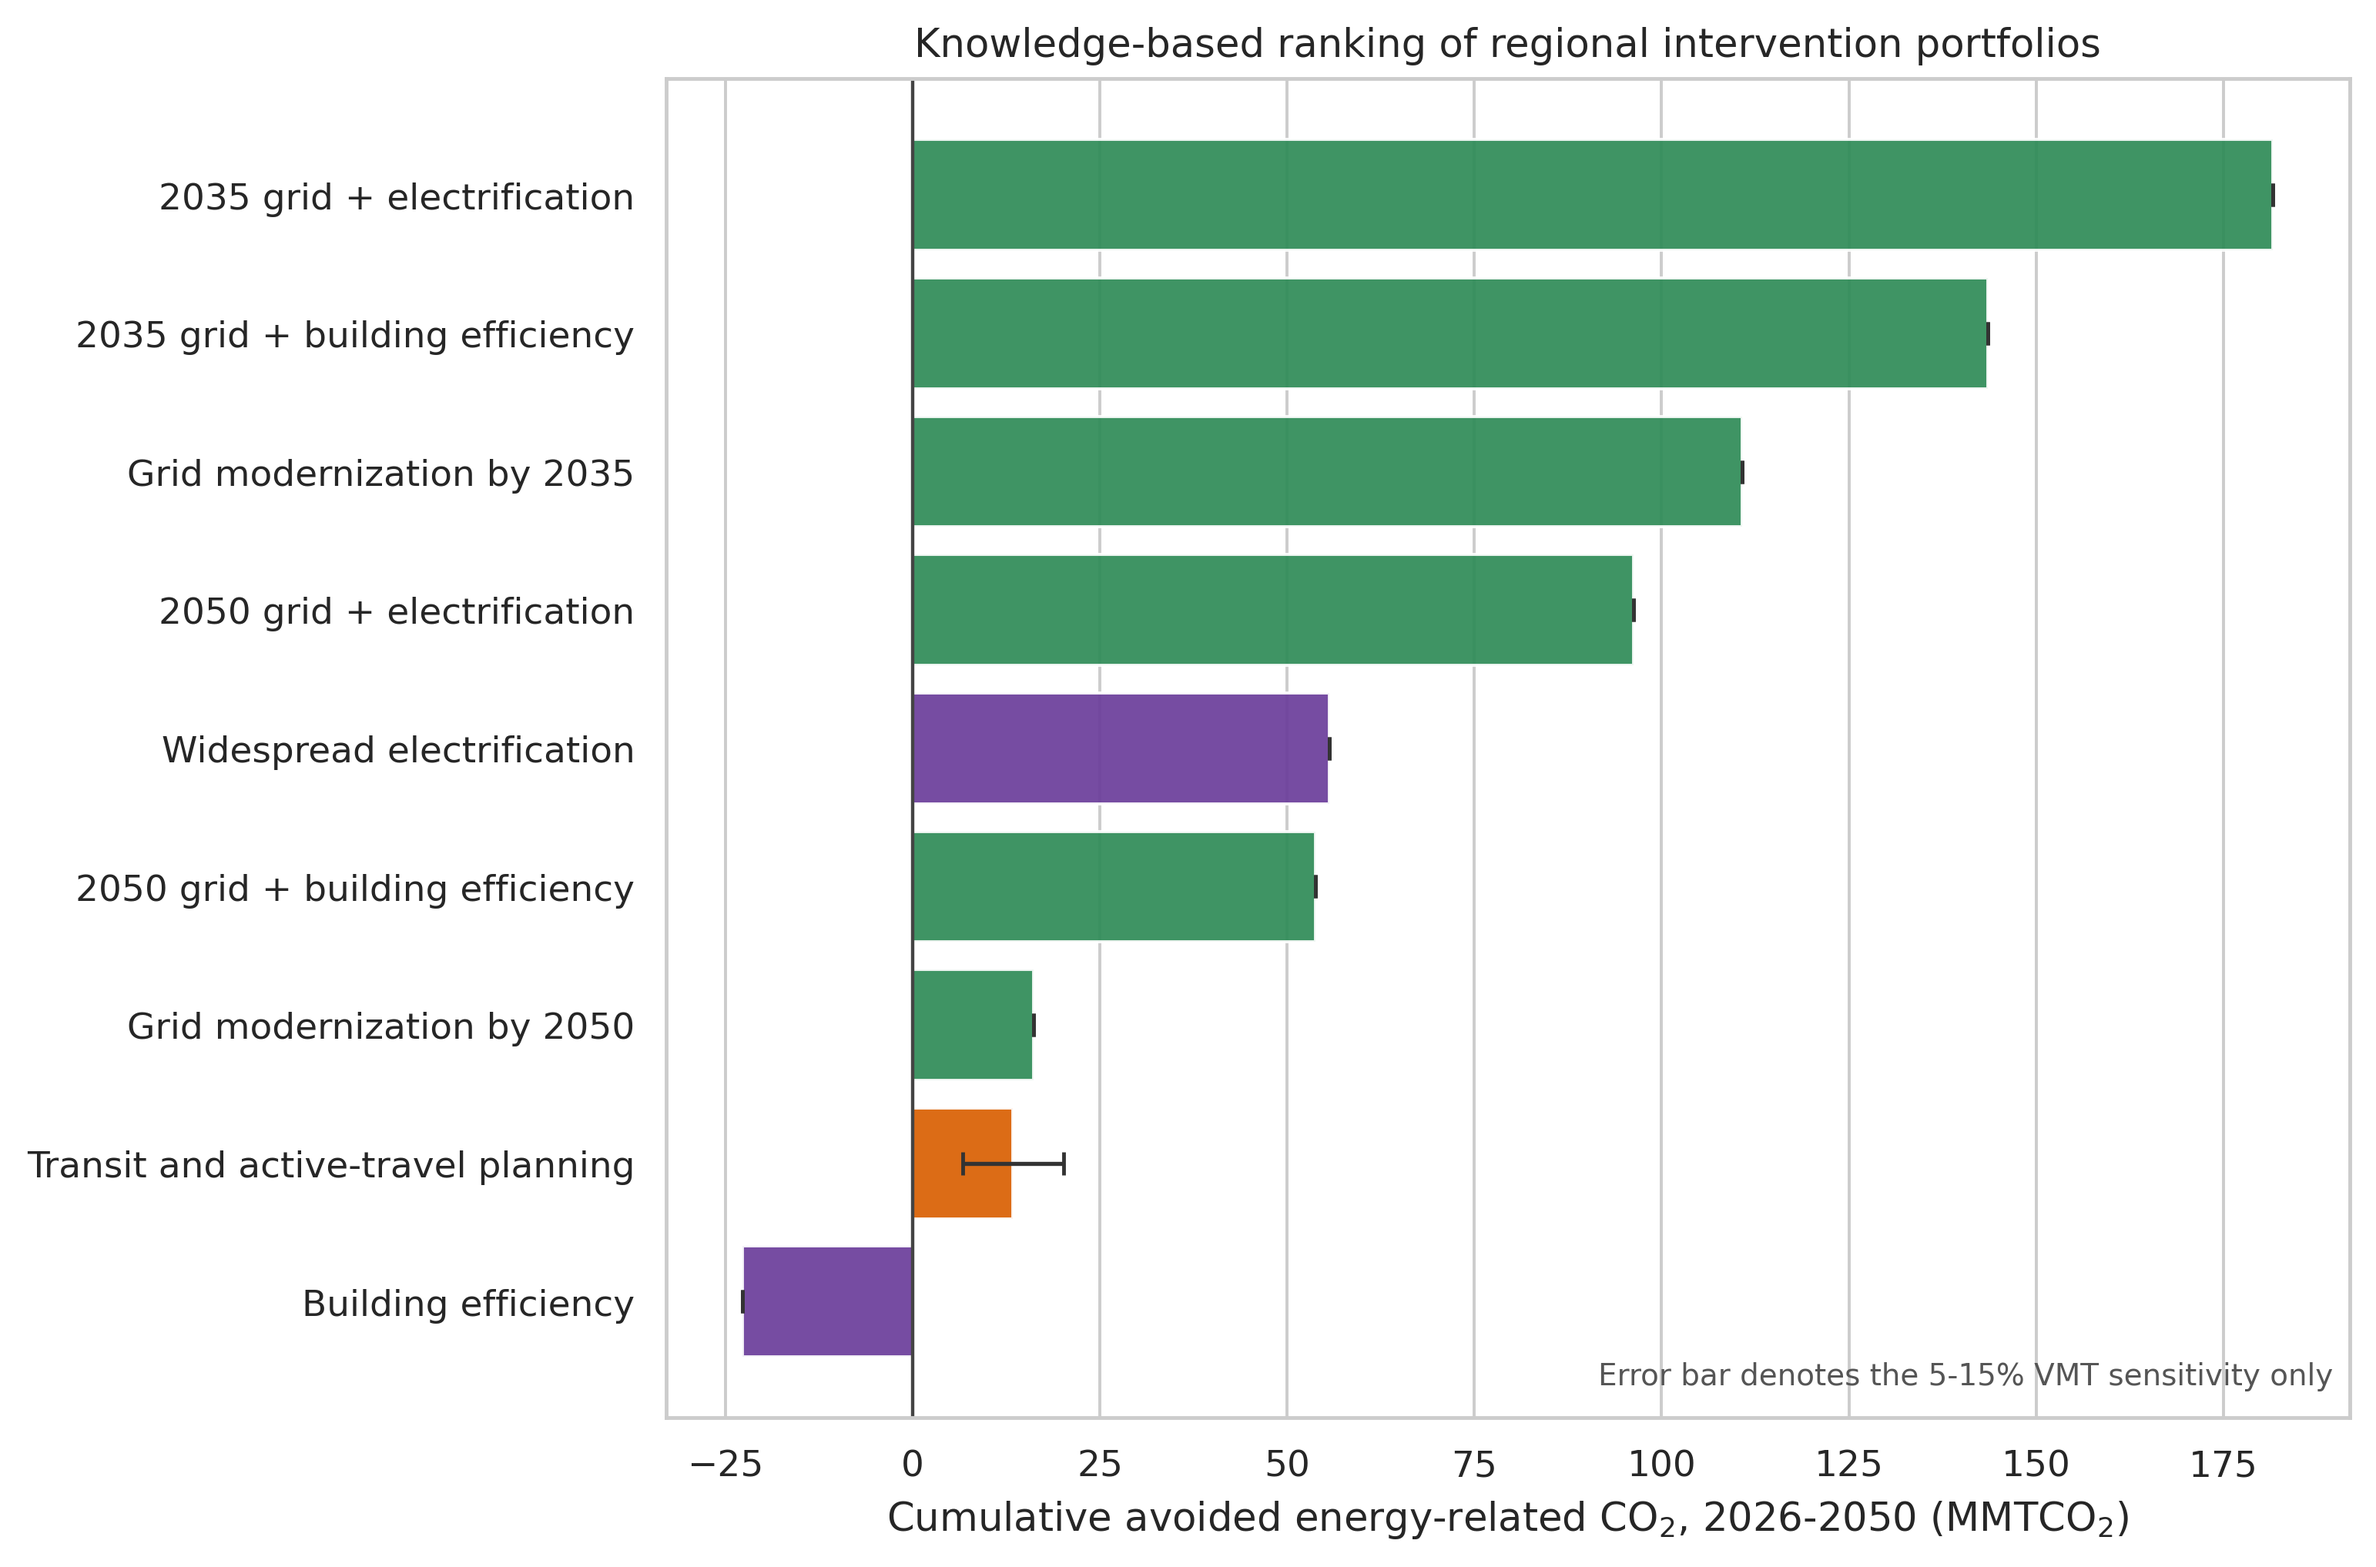
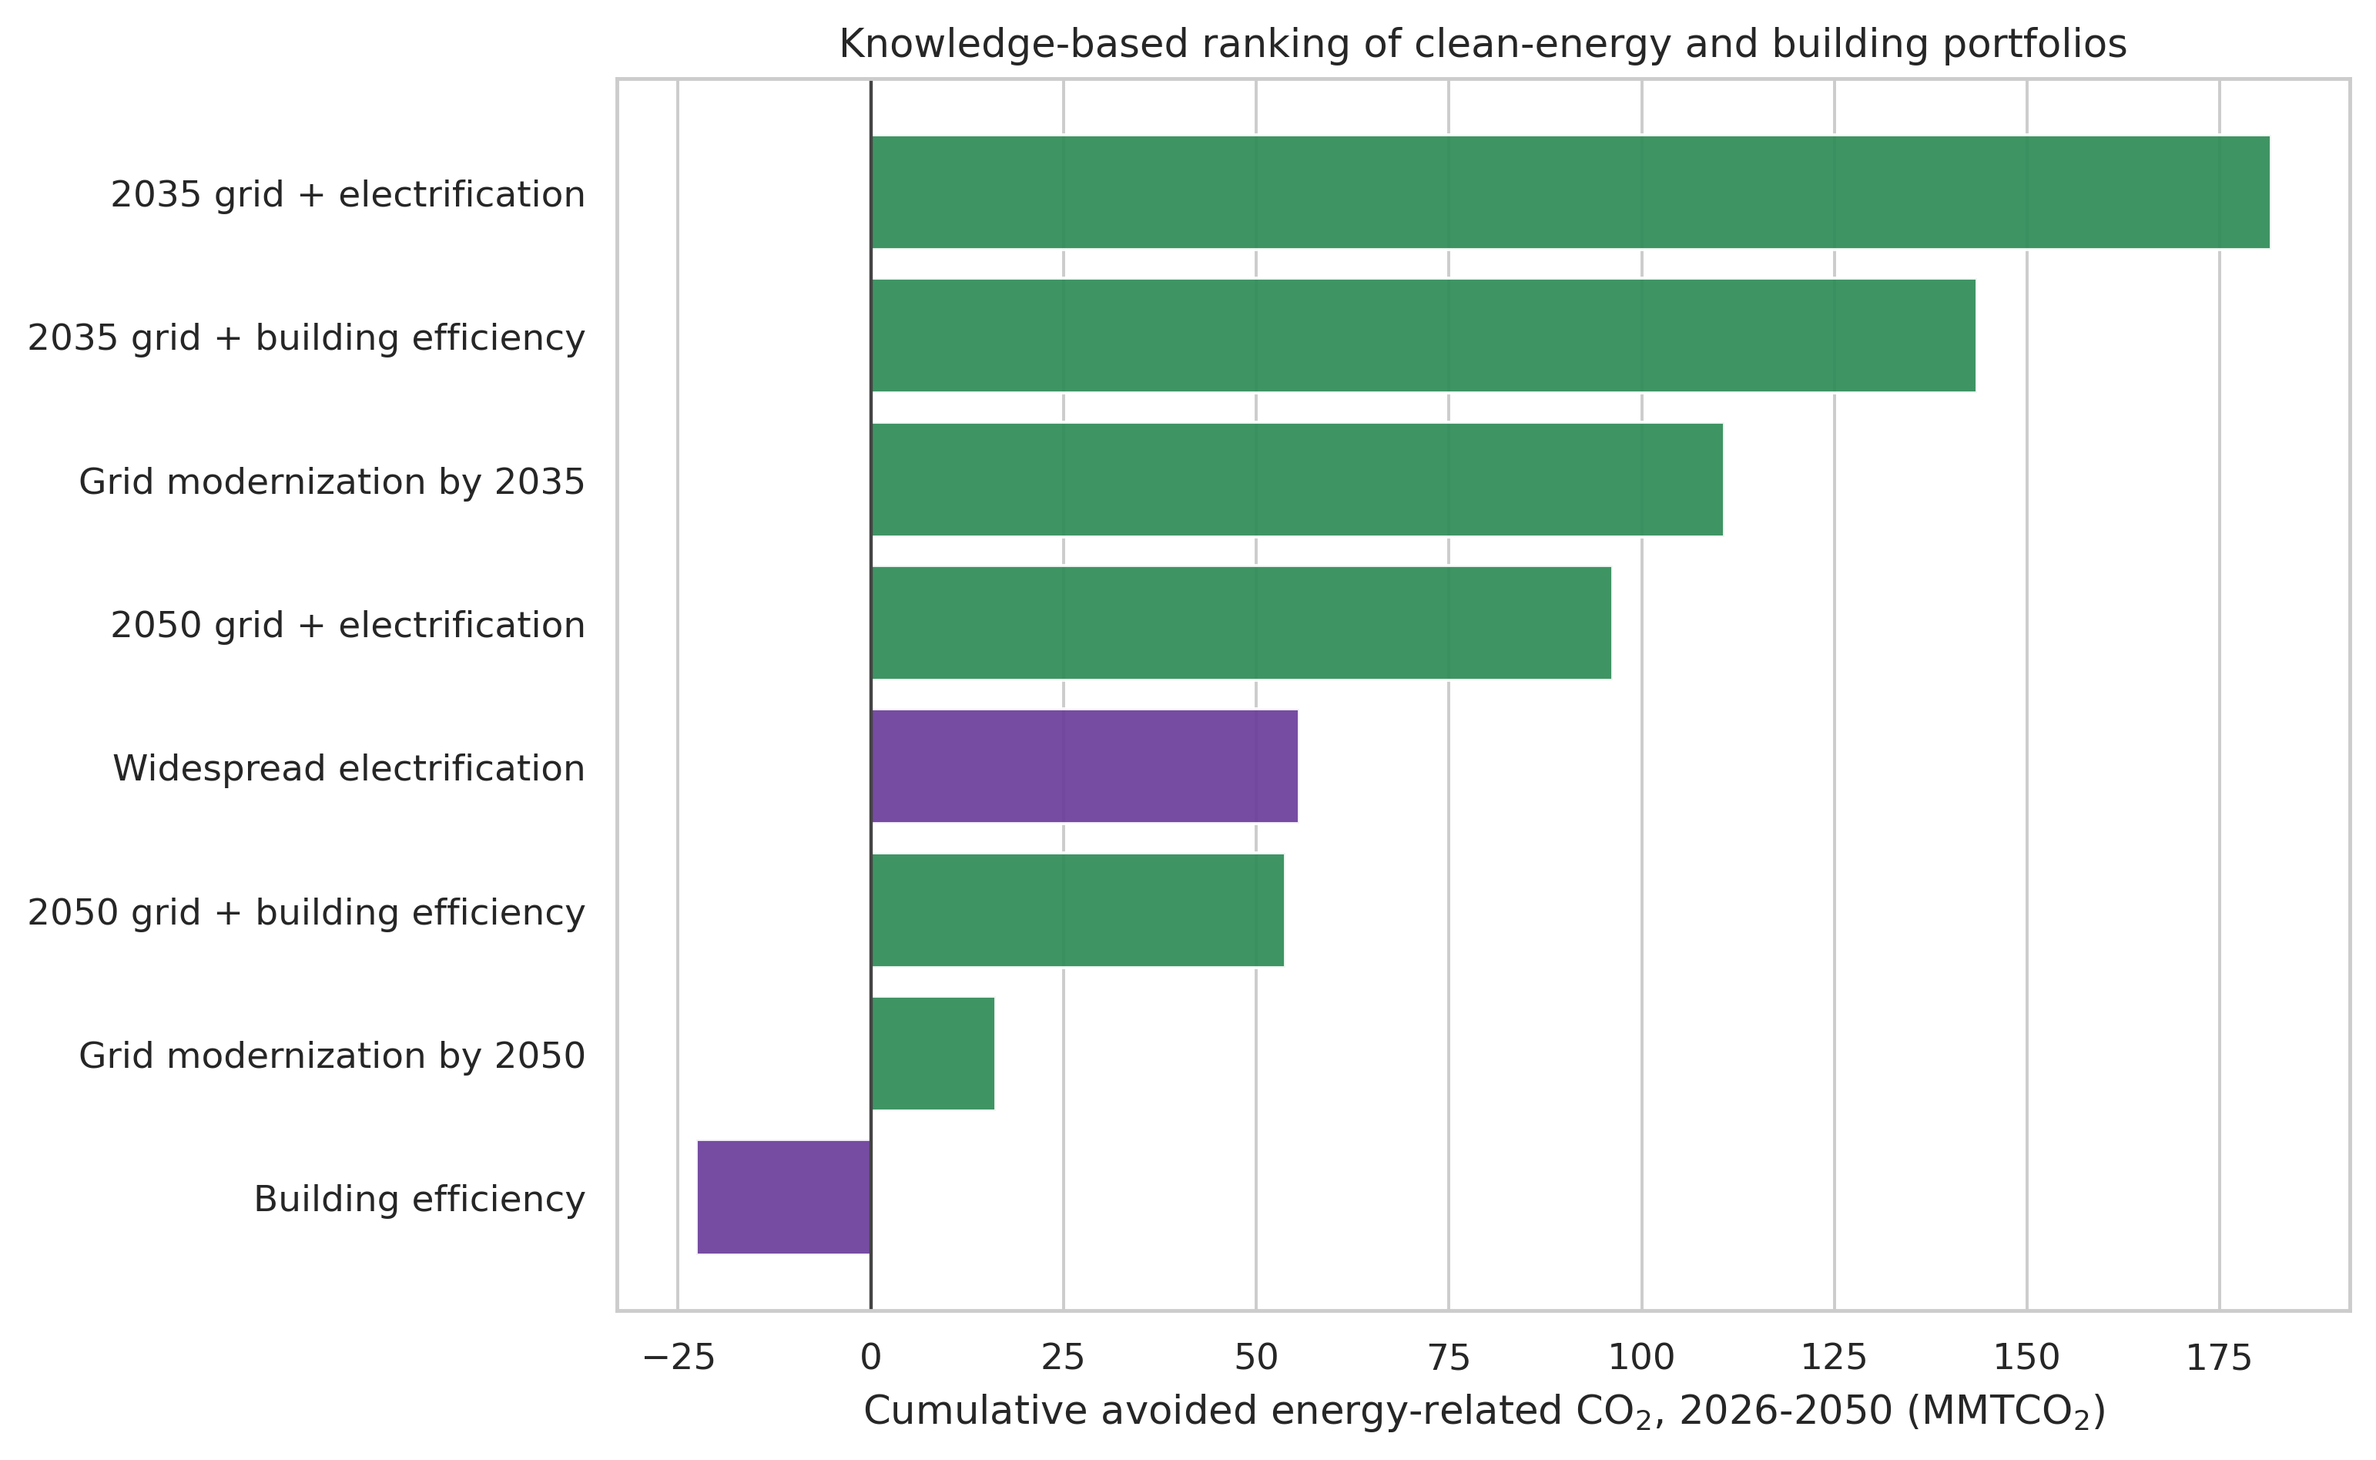
Restrict decision ranking to NREL clean-energy portfolios

Changed region(s): [[0.0, 0.0, 0.9958, 0.9963]]

diff --git a/analysis.py b/analysis.py
@@ -514,8 +514,6 @@ def decision_ranking(panel: pd.DataFrame) -> pd.DataFrame:
                 "Reduction_2035_pct": pct_2035,
                 "Reduction_2050_pct": pct_2050,
                 "First_year_at_least_20pct": threshold_years[0] if threshold_years else "Not reached",
-                "Sensitivity_low_MMTCO2": cumulative,
-                "Sensitivity_high_MMTCO2": cumulative,
                 "Decision_status": (
                     "Not recommended alone"
                     if cumulative <= 0 or pct_2050 <= 0
@@ -525,45 +523,6 @@ def decision_ranking(panel: pd.DataFrame) -> pd.DataFrame:
                 ),
             }
         )
-
-    # Knowledge-rule sensitivity for compact urban form, transit, walking, and cycling.
-    # The GGRP supplies the mode-shift policy target; because SLOPE does not model land-use
-    # or VMT policy directly, the emissions response is deliberately presented as a 5-15%
-    # sensitivity band around a 10% reduction in non-electric transportation by 2050.
-    reference_transport = (
-        panel[
-            (panel["scenario"] == "reference")
-            & (panel["component"] == "TRANSPORTATION_NON-ELECTRIC")
-        ]
-        .groupby("year")["emissions_mmtco2"]
-        .sum()
-    )
-
-    def urban_avoided(final_fraction: float) -> pd.Series:
-        years = reference_transport.index.to_numpy()
-        fraction = np.clip((years - 2026) / (2050 - 2026), 0, 1) * final_fraction
-        return pd.Series(reference_transport.to_numpy() * fraction, index=years)
-
-    urban_low = urban_avoided(0.05)
-    urban_mid = urban_avoided(0.10)
-    urban_high = urban_avoided(0.15)
-    urban_pct_2035 = 100 * urban_mid.loc[2035] / reference.loc[2035]
-    urban_pct_2050 = 100 * urban_mid.loc[2050] / reference.loc[2050]
-    urban_threshold = (urban_mid / reference) >= 0.20
-    urban_years = urban_threshold[urban_threshold].index.tolist()
-    rows.append(
-        {
-            "Portfolio": "Transit and active-travel planning",
-            "Evidence": "GGRP rule + 5-15% VMT sensitivity",
-            "Cumulative_avoided_2026_2050_MMTCO2": urban_mid.loc[2026:2050].sum(),
-            "Reduction_2035_pct": urban_pct_2035,
-            "Reduction_2050_pct": urban_pct_2050,
-            "First_year_at_least_20pct": urban_years[0] if urban_years else "Not reached",
-            "Sensitivity_low_MMTCO2": urban_low.loc[2026:2050].sum(),
-            "Sensitivity_high_MMTCO2": urban_high.loc[2026:2050].sum(),
-            "Decision_status": "Complementary sensitivity",
-        }
-    )
 
     ranking = pd.DataFrame(rows).sort_values(
         "Cumulative_avoided_2026_2050_MMTCO2", ascending=False
@@ -643,36 +602,14 @@ def make_figure_2(ranking: pd.DataFrame) -> None:
     sns.set_theme(style="whitegrid", context="paper", font_scale=1.10)
     plot = ranking.sort_values("Cumulative_avoided_2026_2050_MMTCO2")
     colors = ["#2E8B57" if "grid" in name.lower() else "#6A3D9A" for name in plot["Portfolio"]]
-    colors = ["#D95F02" if "Transit" in name else color for name, color in zip(plot["Portfolio"], colors, strict=True)]
-    fig, ax = plt.subplots(figsize=(8.7, 5.7), constrained_layout=True)
+    fig, ax = plt.subplots(figsize=(8.7, 5.3), constrained_layout=True)
     x = plot["Cumulative_avoided_2026_2050_MMTCO2"].to_numpy()
-    low = plot["Sensitivity_low_MMTCO2"].to_numpy()
-    high = plot["Sensitivity_high_MMTCO2"].to_numpy()
     ax.barh(plot["Portfolio"], x, color=colors, alpha=0.92)
     ax.axvline(0, color="#444444", lw=0.9)
-    ax.errorbar(
-        x,
-        np.arange(len(plot)),
-        xerr=np.vstack([x - low, high - x]),
-        fmt="none",
-        ecolor="#333333",
-        capsize=3,
-        lw=1.1,
-    )
     ax.set_xlabel("Cumulative avoided energy-related CO$_2$, 2026-2050 (MMTCO$_2$)")
     ax.set_ylabel("")
-    ax.set_title("Knowledge-based ranking of regional intervention portfolios")
+    ax.set_title("Knowledge-based ranking of clean-energy and building portfolios")
     ax.grid(axis="y", visible=False)
-    ax.text(
-        0.99,
-        0.02,
-        "Error bar denotes the 5-15% VMT sensitivity only",
-        transform=ax.transAxes,
-        ha="right",
-        va="bottom",
-        fontsize=8,
-        color="#555555",
-    )
     fig.savefig(OUTPUT_DIR / "figure_2_decision_ranking.png", dpi=350, bbox_inches="tight")
     plt.close(fig)
 

diff --git a/README.md b/README.md
@@ -45,8 +45,8 @@ NREL SLOPE supplies annual **energy-related CO2 scenario projections**, not
 observed future emissions and not a complete community GHG inventory. The
 East-West Gateway 2022 inventory (44.5 MMTCO2e) is used only as an external
 boundary check because its gases, sectors, and accounting methods differ.
-The urban-planning row is a transparent 5–15% vehicle-miles-traveled
-sensitivity rule; it is not an NREL scenario. Results support comparative
+The decision ranking is restricted to the supplied NREL clean-electricity,
+electrification, and building-efficiency scenarios. Results support comparative
 planning under stated assumptions and should not be read as certain 2050
 predictions.
 
